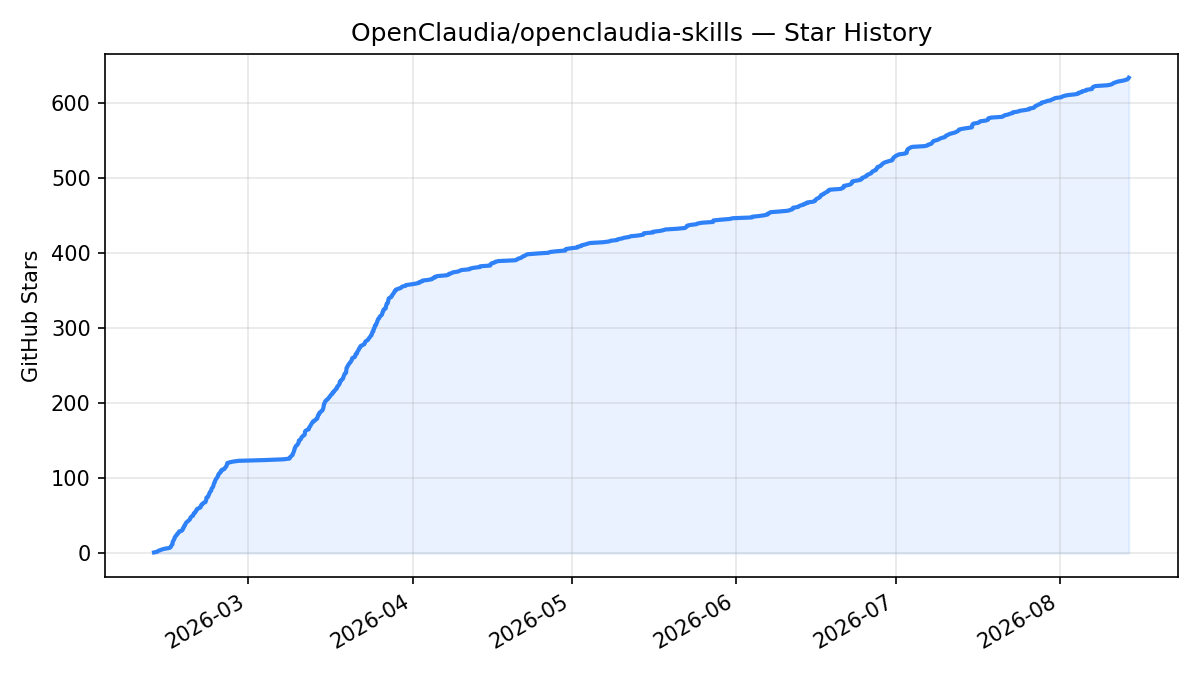
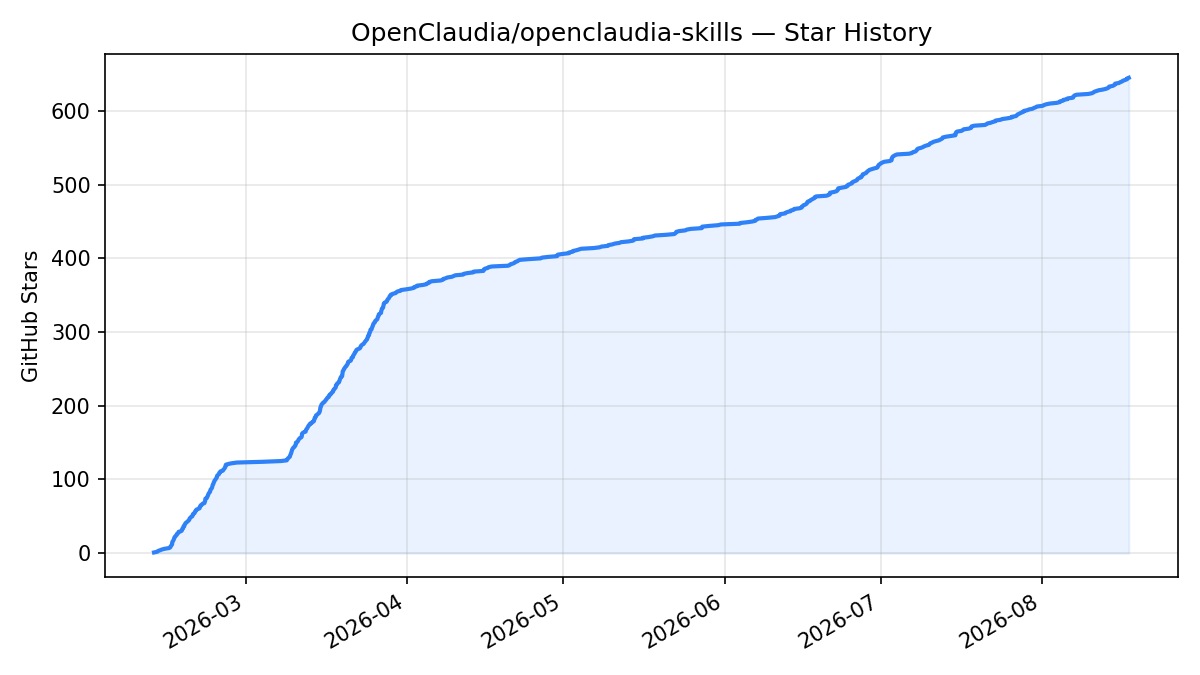
readme: refresh star chart (645 stars)

diff --git a/README.md b/README.md
@@ -333,7 +333,7 @@ MIT — see [LICENSE](LICENSE)
 
 ![Star History Chart](assets/star-history.png)
 
-<sub>Updated 2026-08-13. GitHub [restricted the stargazers API](https://github.blog/changelog/2026-06-30-upcoming-access-restrictions-to-public-api-endpoints-and-ui-views/) in June 2026, so the live star-history.com badge no longer renders; this chart is generated from the repo's own star data.</sub>
+<sub>Updated 2026-08-17. GitHub [restricted the stargazers API](https://github.blog/changelog/2026-06-30-upcoming-access-restrictions-to-public-api-endpoints-and-ui-views/) in June 2026, so the live star-history.com badge no longer renders; this chart is generated from the repo's own star data.</sub>
 
 ---
 
